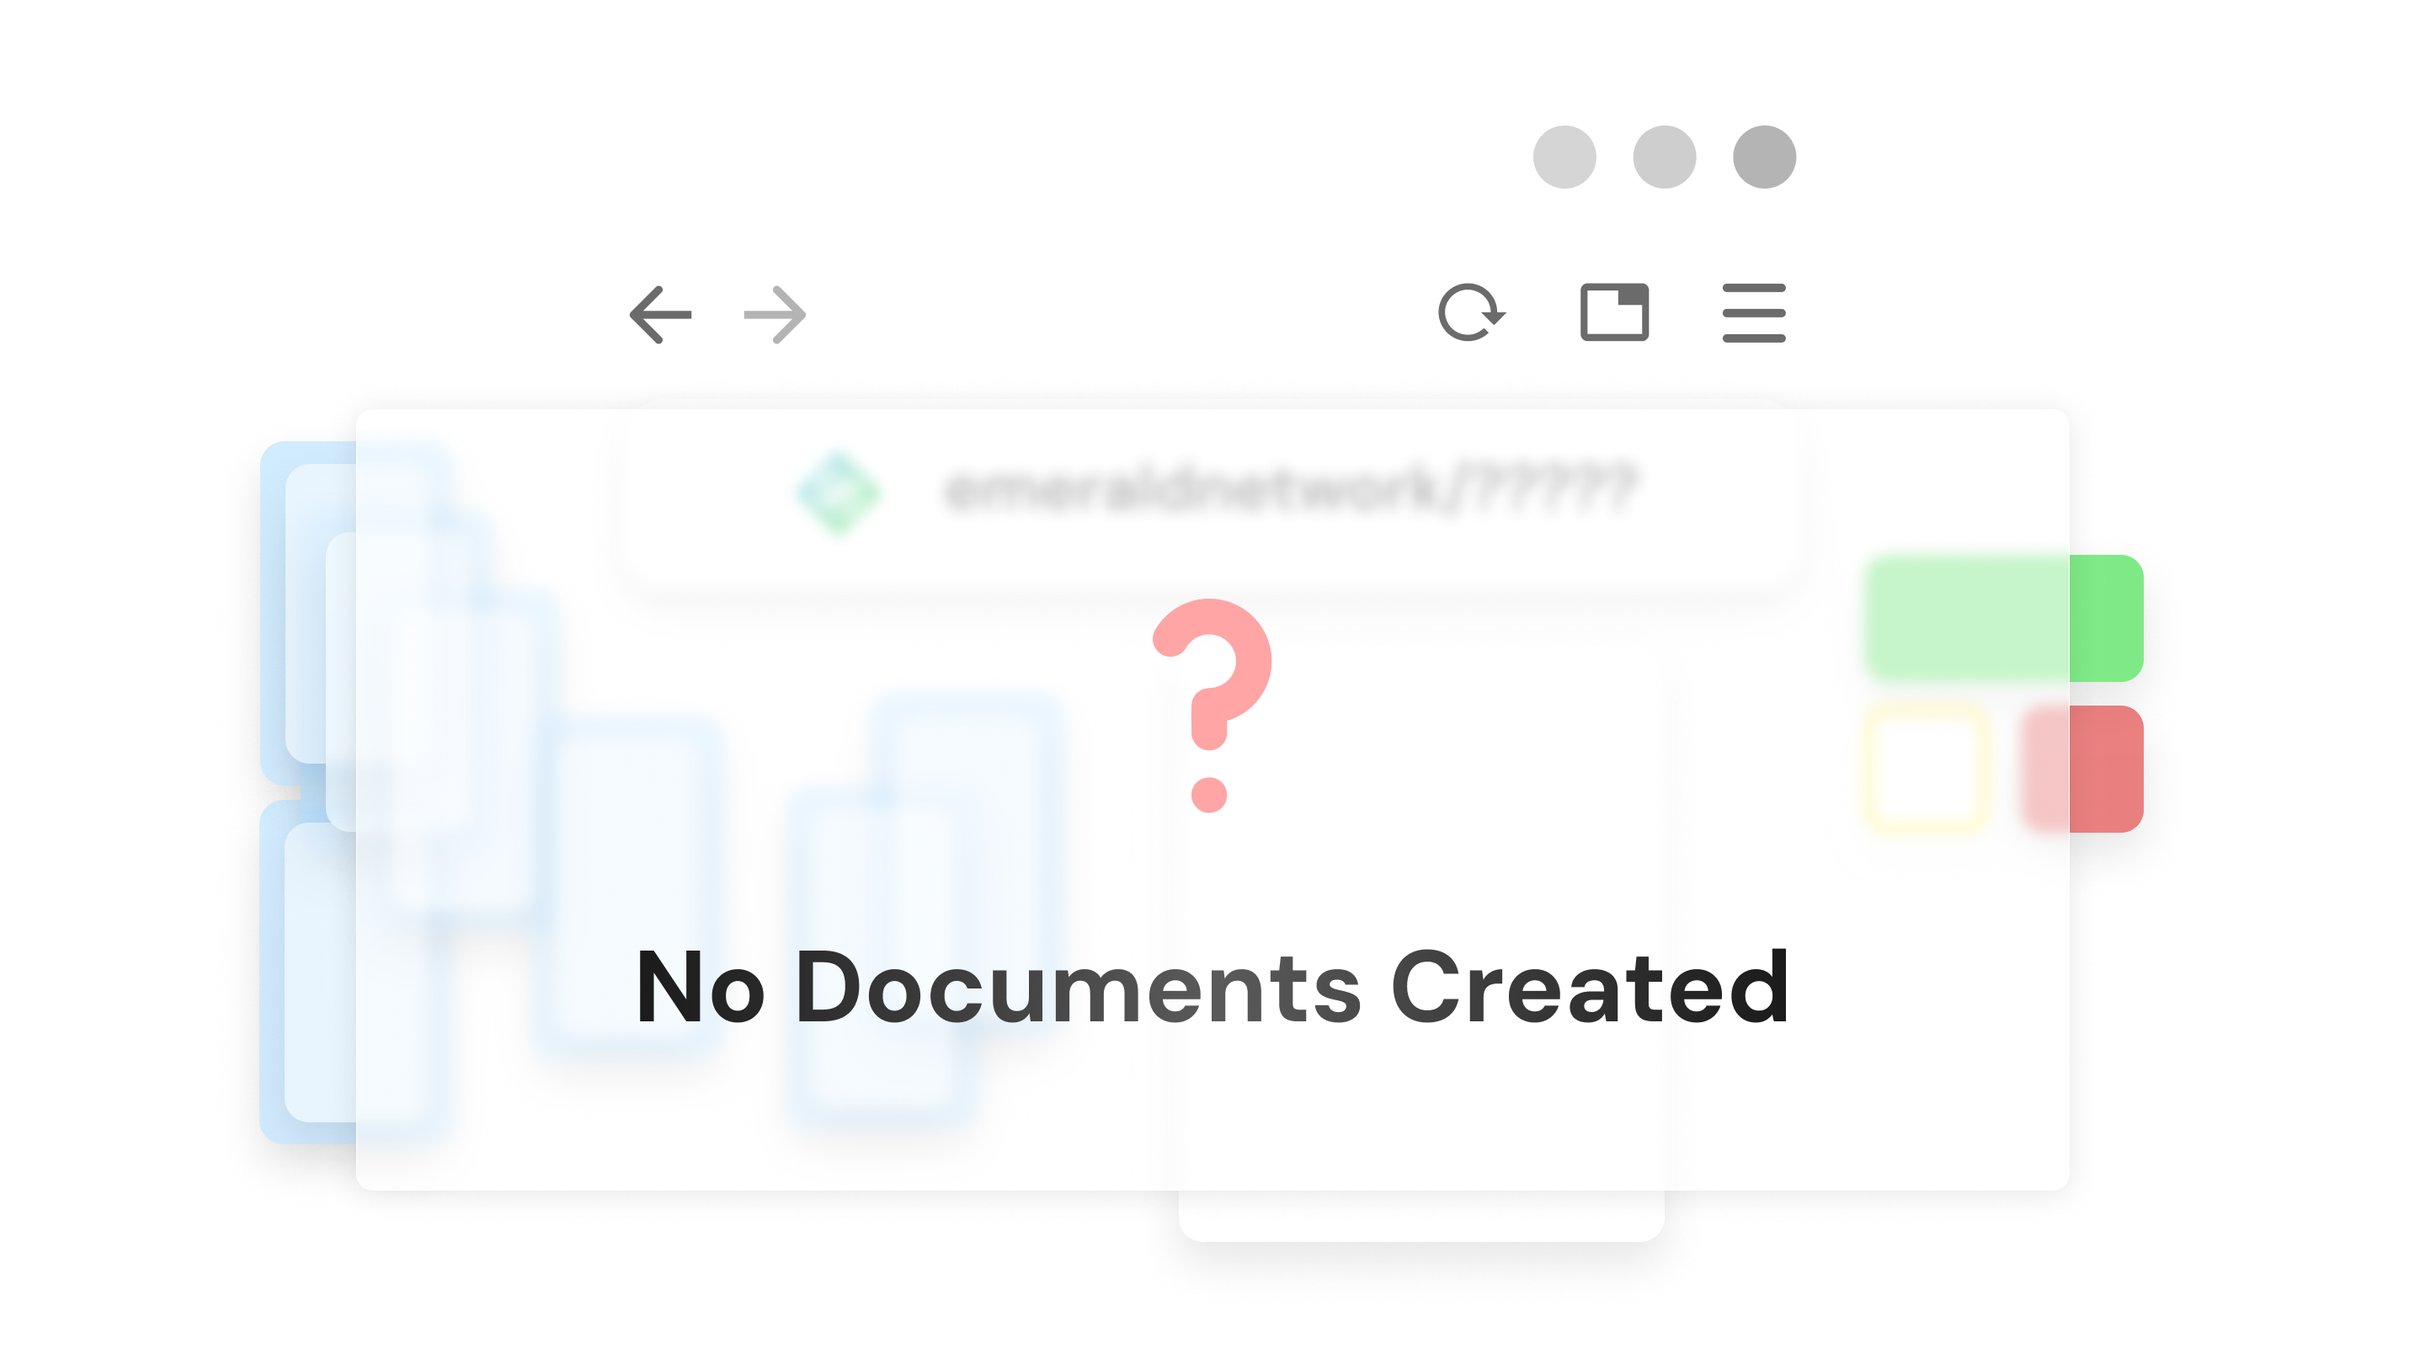
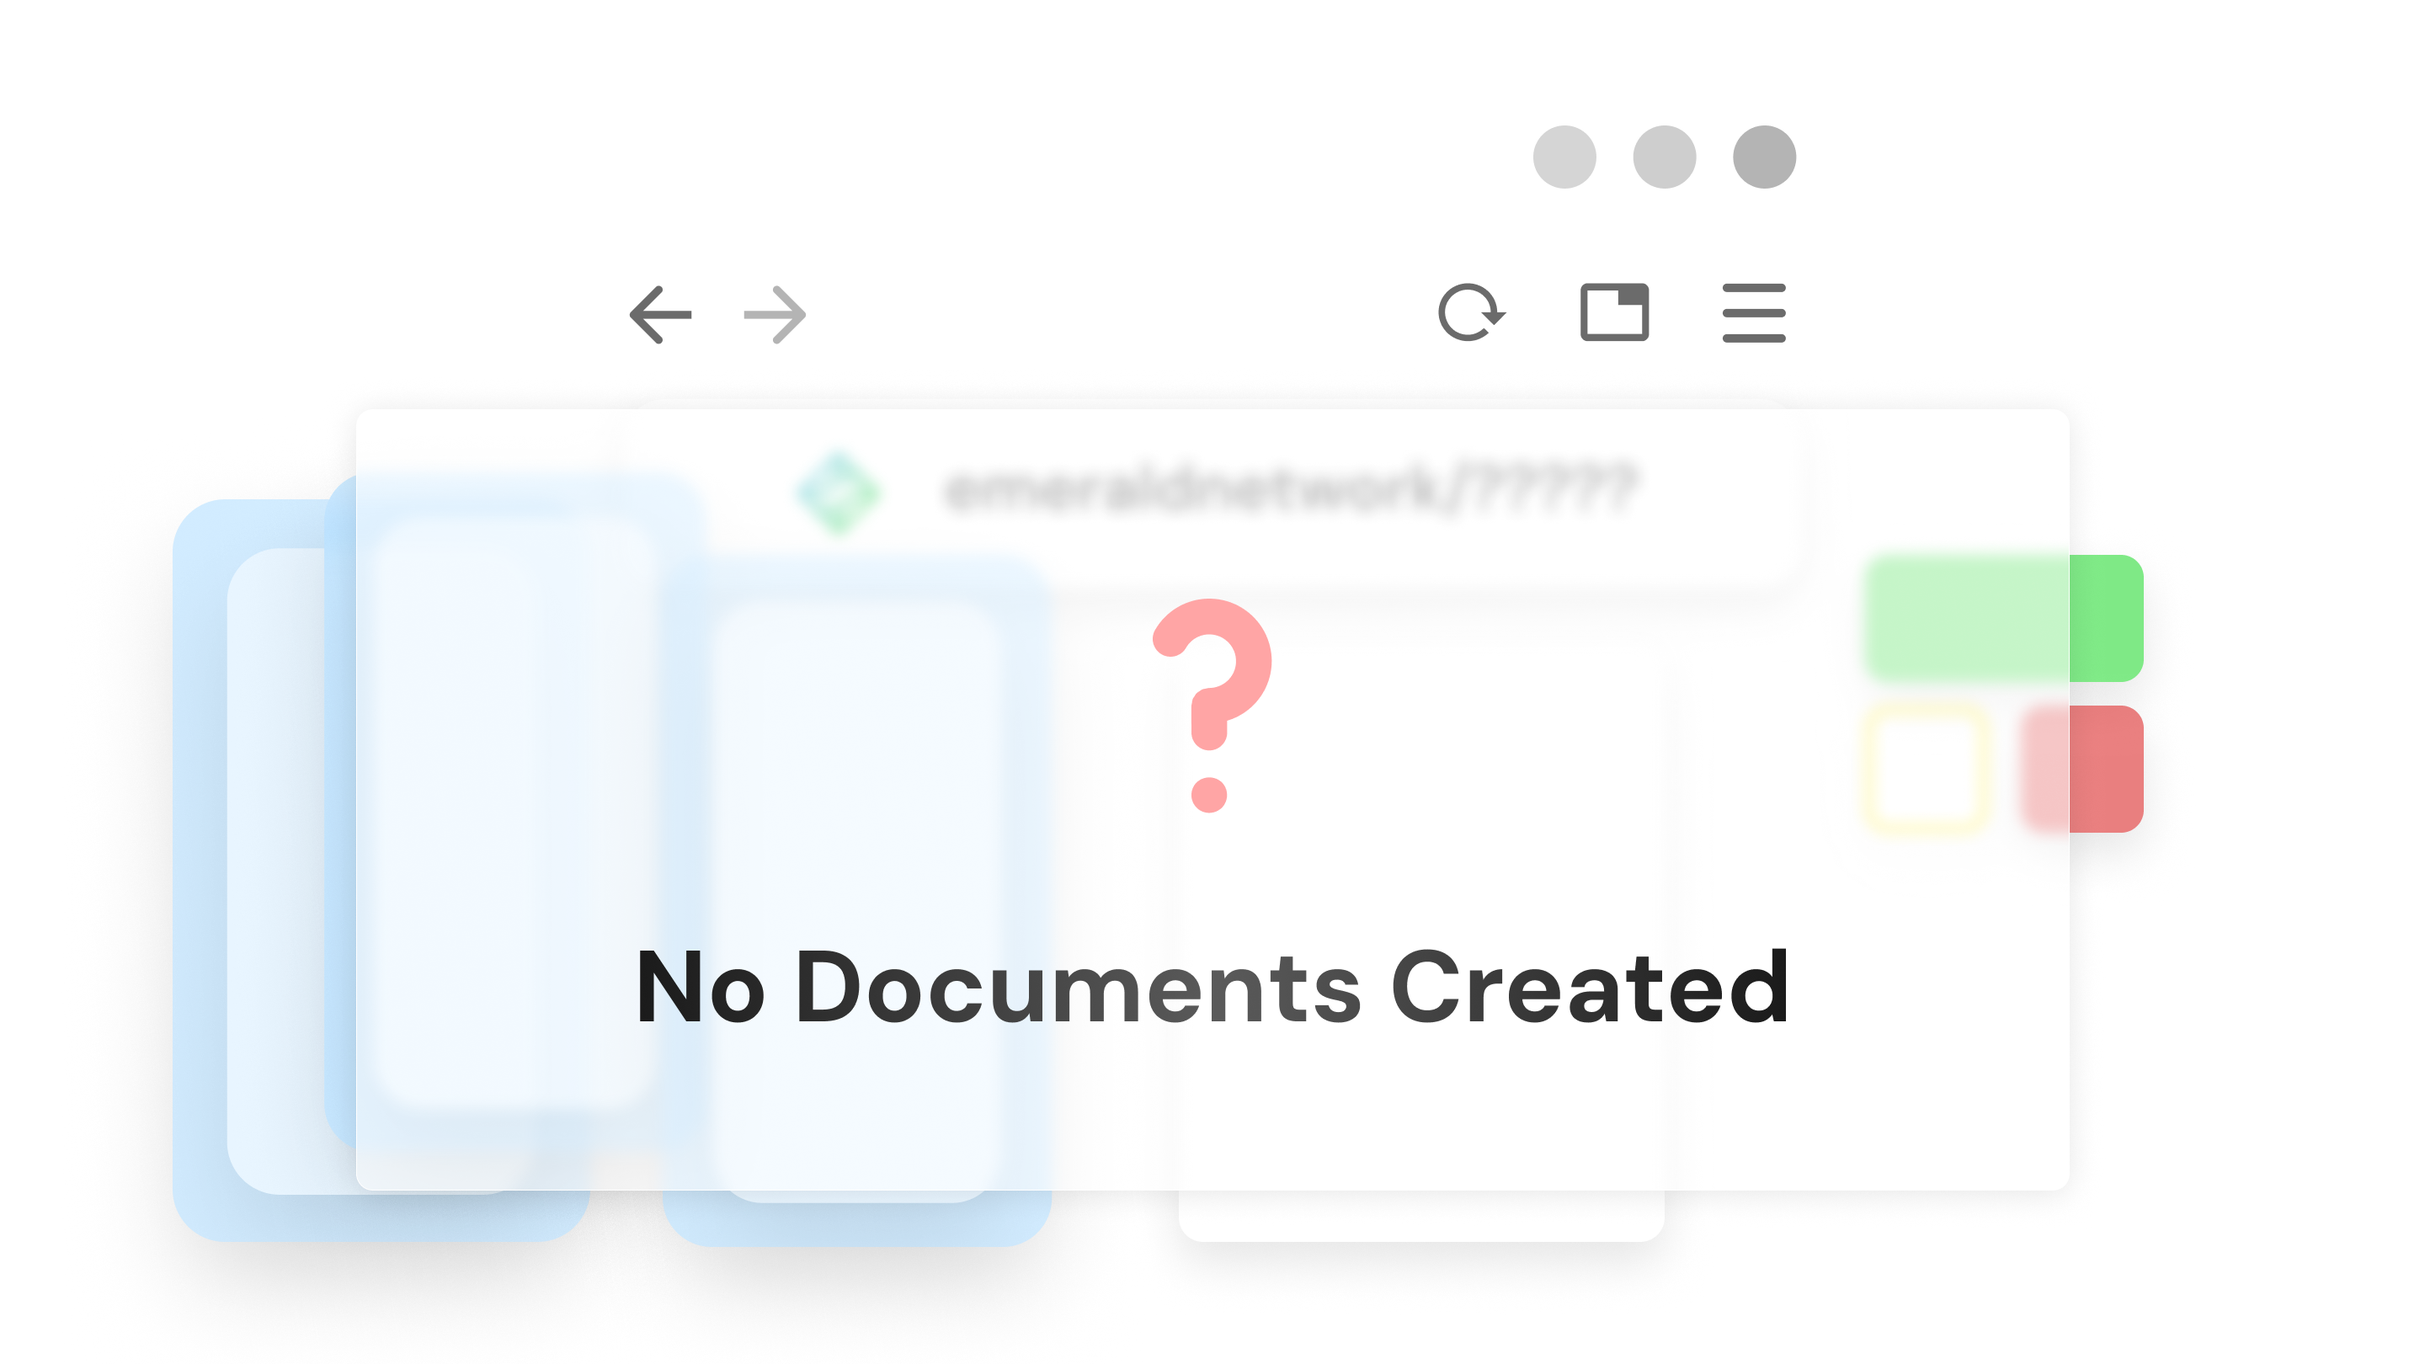
FIx duplicate print

Changed region(s): [[0.0625, 0.3086, 0.4375, 0.9259], [0.25, 0.4012, 0.3125, 0.5247], [0.1875, 0.3395, 0.25, 0.4012]]

diff --git a/assets/scripts/docs.js b/assets/scripts/docs.js
@@ -8732,11 +8732,7 @@ function startAutosaveSnapshots() {
     var bA11y = $("btnAccessibilityCheck");
     if (bA11y) { bA11y.addEventListener("mousedown", function (e) { e.preventDefault(); }); bA11y.addEventListener("click", runAccessibilityCheck); }
 
-    // Round 3: editor context menu + section break wiring done in initNewFeatures
-    initEditorContextMenu();
-    initRound4Features();
-
-    // Round 11: periodic relative autosave time update
+    // Periodic relative autosave time update
     setInterval(function () { updateRelativeAutosave(); }, 10000);
   }
 
@@ -8807,149 +8803,4 @@ function startAutosaveSnapshots() {
     lastWordCount = newCount;
   }
 
-  function initRound4Features() {
-    // Custom rich tooltips removed (Slides parity) — buttons keep their
-    // native title= tooltips.
-
-    // Table cell right-click (Round 6)
-    initTableContextMenu();
-  }
-
-  /* ---------------- Table cell right-click menu ---------------- */
-  function initTableContextMenu() {
-    var scroll = $("documentScroll");
-    if (!scroll) return;
-    scroll.addEventListener("contextmenu", function (e) {
-      var cell = e.target.closest(".page-content td, .page-content th");
-      if (!cell) return;
-      e.preventDefault();
-      // Build a table-specific context menu
-      hideEditorContextMenu();
-      var menu = ctxMenu || (ctxMenu = document.createElement("div"));
-      menu.className = "editor-context-menu open";
-      menu.innerHTML = "";
-      var items = [
-        { label: "Align left", action: function () { cell.style.textAlign = "left"; scheduleAutosave(); } },
-        { label: "Align center", action: function () { cell.style.textAlign = "center"; scheduleAutosave(); } },
-        { label: "Align right", action: function () { cell.style.textAlign = "right"; scheduleAutosave(); } },
-        { sep: true },
-        { label: "Shade cell", action: function () { cell.style.backgroundColor = "var(--ui-accent-soft)"; scheduleAutosave(); } },
-        { label: "Clear shading", action: function () { cell.style.backgroundColor = ""; scheduleAutosave(); } },
-        { sep: true },
-        { label: "Bold border", action: function () { cell.style.border = "2px solid var(--text-base)"; scheduleAutosave(); } },
-        { label: "No border", action: function () { cell.style.border = "1px solid var(--border-chrome)"; scheduleAutosave(); } },
-        { sep: true },
-        { label: "Delete row", danger: true, action: function () {
-          var row = cell.closest("tr");
-          if (row && row.parentElement) row.parentElement.removeChild(row);
-          schedulePaginate();
-          scheduleAutosave();
-        } },
-      ];
-      for (var i = 0; i < items.length; i++) {
-        var it = items[i];
-        if (it.sep) {
-          var sep = document.createElement("div");
-          sep.className = "ctx-sep";
-          menu.appendChild(sep);
-          continue;
-        }
-        var b = document.createElement("button");
-        b.innerHTML = "<span>" + it.label + "</span>";
-        if (it.danger) b.classList.add("ctx-danger");
-        (function (action) {
-          b.addEventListener("click", function (e2) {
-            e2.stopPropagation();
-            hideEditorContextMenu();
-            action();
-          });
-        })(it.action);
-        menu.appendChild(b);
-      }
-      menu.style.left = e.clientX + "px";
-      menu.style.top = e.clientY + "px";
-      document.body.appendChild(menu);
-      var rect = menu.getBoundingClientRect();
-      if (rect.right > window.innerWidth) menu.style.left = (window.innerWidth - rect.width - 8) + "px";
-      if (rect.bottom > window.innerHeight) menu.style.top = (window.innerHeight - rect.height - 8) + "px";
-    });
-  }
-
-  /* ---------------- Editor right-click context menu ---------------- */
-  var ctxMenu = null;
-  function initEditorContextMenu() {
-    var scroll = $("documentScroll");
-    if (!scroll) return;
-    scroll.addEventListener("contextmenu", function (e) {
-      var target = e.target.closest(".page-content");
-      if (!target) return;
-      e.preventDefault();
-      showEditorContextMenu(e.clientX, e.clientY);
-    });
-    document.addEventListener("click", function () { hideEditorContextMenu(); });
-    document.addEventListener("scroll", function () { hideEditorContextMenu(); }, true);
-  }
-
-  function showEditorContextMenu(x, y) {
-    if (!ctxMenu) {
-      ctxMenu = document.createElement("div");
-      ctxMenu.className = "editor-context-menu";
-      document.body.appendChild(ctxMenu);
-    }
-    var sel = window.getSelection();
-    var hasSelection = sel && !sel.isCollapsed;
-    var inEditor = false;
-    if (sel && sel.anchorNode) {
-      var node = sel.anchorNode.nodeType === Node.ELEMENT_NODE ? sel.anchorNode : sel.anchorNode.parentElement;
-      inEditor = !!node && !!node.closest && !!node.closest(".page-content");
-    }
-    ctxMenu.innerHTML = "";
-    var items = [
-      { label: "Cut", shortcut: "Ctrl+X", action: function () { document.execCommand("cut"); }, disabled: !hasSelection },
-      { label: "Copy", shortcut: "Ctrl+C", action: function () { document.execCommand("copy"); }, disabled: !hasSelection },
-      { label: "Paste", shortcut: "Ctrl+V", action: function () { document.execCommand("paste"); } },
-      { sep: true },
-      { label: "Bold", shortcut: "Ctrl+B", action: function () { exec("bold"); }, icon: "B" },
-      { label: "Italic", shortcut: "Ctrl+I", action: function () { exec("italic"); }, icon: "I" },
-      { label: "Underline", shortcut: "Ctrl+U", action: function () { exec("underline"); }, icon: "U" },
-      { sep: true },
-      { label: "Insert Link", shortcut: "Ctrl+K", action: function () { openLinkDialog(); } },
-      { label: "Add Comment", action: function () { addComment(); }, disabled: !hasSelection },
-    ];
-    for (var i = 0; i < items.length; i++) {
-      var it = items[i];
-      if (it.sep) {
-        var sep = document.createElement("div");
-        sep.className = "ctx-sep";
-        ctxMenu.appendChild(sep);
-        continue;
-      }
-      var btn = document.createElement("button");
-      btn.innerHTML = (it.icon ? '<span style="font-weight:700;font-family:var(--font-ui)">' + it.icon + "</span>" : "") +
-        "<span>" + it.label + "</span>" +
-        (it.shortcut ? '<span class="ctx-shortcut">' + it.shortcut + "</span>" : "");
-      if (it.disabled) btn.classList.add("ctx-disabled");
-      else {
-        (function (action) {
-          btn.addEventListener("click", function (e) {
-            e.stopPropagation();
-            hideEditorContextMenu();
-            action();
-          });
-        })(it.action);
-      }
-      ctxMenu.appendChild(btn);
-    }
-    ctxMenu.style.left = x + "px";
-    ctxMenu.style.top = y + "px";
-    ctxMenu.classList.add("open");
-    // keep on screen
-    var rect = ctxMenu.getBoundingClientRect();
-    if (rect.right > window.innerWidth) ctxMenu.style.left = (window.innerWidth - rect.width - 8) + "px";
-    if (rect.bottom > window.innerHeight) ctxMenu.style.top = (window.innerHeight - rect.height - 8) + "px";
-  }
-
-  function hideEditorContextMenu() {
-    if (ctxMenu) ctxMenu.classList.remove("open");
-  }
 })();

diff --git a/assets/styles/docs.css b/assets/styles/docs.css
@@ -451,8 +451,7 @@ body {
 .ribbon-tab[data-tab="file"]:hover { background: transparent; }
 
 .ribbon-tab:focus-visible {
-  outline: 2px solid var(--ui-accent-ring);
-  outline-offset: 2px;
+  outline-offset: 0px;
 }
 
 .ribbon-tab-indicator {
@@ -1705,10 +1704,6 @@ body {
   border-top-color: var(--ui-accent-border);
   border-bottom-color: var(--ui-accent-border);
   background: var(--ui-accent-soft);
-  font-size: 11px;
-  font-family: var(--font-ui);
-  text-transform: uppercase;
-  letter-spacing: 1px;
   user-select: none;
   position: relative;
 }
@@ -3347,7 +3342,7 @@ body {
   .draw-toolbar, .symbol-toolbar,
   .outline-panel, .thumbnails-panel, .comments-panel,
   .footnotes-panel,
-  .confetti-container, .rich-tip, .editor-context-menu,
+  .confetti-container, .rich-tip,
   .find-history,
   .zen-indicator {
     display: none !important;
@@ -3360,25 +3355,26 @@ body {
     background-image: none;
     padding: 0;
   }
-  .pages-wrapper { gap: 0; transform: none !important; }
+  .pages-wrapper { gap: 0; transform: none !important; zoom: 1 !important; }
   /* Each on-screen page fills exactly one A4 sheet edge-to-edge. Its own
      padding is the document margins, so the printout matches the on-screen
      paper exactly (real-paper look). */
   .page {
-    width: var(--emu-ppw, 210mm);
-    height: var(--emu-pph, 297mm);
+    width: 210mm !important;
+    height: 297mm !important;
     box-shadow: none;
     page-break-after: always;
     break-after: page;
     border-radius: 0;
     margin: 0;
-    overflow: visible;
+    overflow: hidden !important;
     animation: none;
   }
   .page:last-child {
     page-break-after: auto;
     break-after: auto;
   }
+  .page[data-thumb="1"] { display: none !important; }
   .page::before { display: none; }
   .page-badge { display: none !important; }
 .emdocs-page-break,
@@ -4169,45 +4165,6 @@ a.zdocs-internal-link:hover { text-decoration-color: var(--ui-accent); }
 }
 
 /* ---- Right-click context menu (in-document) ---- */
-.editor-context-menu {
-  position: fixed;
-  background: var(--bg-toolbar);
-  backdrop-filter: blur(8px);
-  -webkit-backdrop-filter: blur(8px);
-  border: 1px solid var(--border-chrome);
-  border-radius: var(--radius);
-  box-shadow: var(--shadow-lg);
-  padding: 4px;
-  z-index: 260;
-  min-width: 200px;
-  display: none;
-}
-.editor-context-menu.open { display: block; animation: ctxFadeIn 0.15s ease-out; }
-.editor-context-menu .ctx-group { padding: 2px 0; }
-.editor-context-menu .ctx-sep { height: 1px; background: var(--border-chrome); margin: 4px 0; }
-.editor-context-menu button {
-  display: flex;
-  align-items: center;
-  gap: 8px;
-  width: 100%;
-  text-align: left;
-  padding: 7px 12px;
-  border: none;
-  background: transparent;
-  color: var(--text-base);
-  font-size: 13px;
-  cursor: pointer;
-  border-radius: 4px;
-  font-family: var(--font-ui);
-}
-.editor-context-menu button:hover { background: var(--ui-accent-soft); color: var(--ui-accent); }
-.editor-context-menu button.ctx-danger { color: #d93025; }
-.editor-context-menu button.ctx-danger:hover { background: rgba(217, 48, 37, 0.08); }
-.editor-context-menu button svg { width: 14px; height: 14px; opacity: 0.7; }
-.editor-context-menu button.ctx-disabled { opacity: 0.4; cursor: default; }
-.editor-context-menu button.ctx-disabled:hover { background: transparent; color: var(--text-base); }
-.editor-context-menu .ctx-shortcut { margin-left: auto; font-size: 10px; color: var(--text-faint); font-family: var(--font-mono); }
-
 /* ---- Tooltip (native title= replacement for ribbon buttons) ---- */
 .ribbon-btn[data-tip] { position: relative; }
  ribbon-btn[data-tip]::after { content: ""; }
@@ -4404,13 +4361,14 @@ a.zdocs-internal-link:hover { text-decoration-color: var(--ui-accent); }
    not leave a blue outline lingering on the bar. Keyboard users still get a
    visible focus affordance via the browser default :focus ring, which we
    also neutralize for these specific controls below. */
+/* Keyboard focus matches slides/notes: browser-default focus ring flush to the
+   control (outline-offset 0px), NOT a custom colored/thick ring. */
 .ribbon-btn:focus-visible,
 .topbar-action:focus-visible,
 .btn:focus-visible,
 .select:focus-visible,
 .ribbon-btn-icon:focus-visible {
-  outline: 2px solid var(--ui-accent-ring);
-  outline-offset: 2px;
+  outline-offset: 0px;
 }
 
 /* Status-bar items: no blue focus ring on click OR keyboard focus,
@@ -4421,11 +4379,6 @@ a.zdocs-internal-link:hover { text-decoration-color: var(--ui-accent); }
 .page-size-label:focus {
   outline: none;
   box-shadow: none;
-}
-
-/* Ribbon button focus glow (subtle) */
-.ribbon-btn:focus-visible {
-  box-shadow: 0 0 0 3px var(--ui-accent-ring), var(--shadow-md);
 }
 
 /* Topbar action hover refinement */
@@ -5566,9 +5519,10 @@ body.no-active-doc .print-preview-bar {
 }
 
 .no-docs-hint {
-  font-family: var(--font-ui);
-  font-size: 14px;
-  color: rgba(71, 85, 105, 0.6);
+  /* 16px — matches Slides/Notes "Create your first …" hint. Their
+     .no-notes-container p (0,1,1) overrides .no-notes-hint (0,1,0) to 16px. */
+  font-size: 16px;
+  color: rgba(44, 62, 80, 0.5) !important;
   margin: 0;
 }
 

diff --git a/docs.html b/docs.html
@@ -16,6 +16,20 @@
   <link rel="icon" type="image/x-icon" href="/assets/images/docsicon.webp">
 </head>
 <body class="no-active-doc">
+  <div id="custom-context-menu" class="rightclick-menu">
+    <div class="context-section">
+      <span class="context-title"><svg width="12" height="12" viewBox="0 0 24 24" fill="none"
+          stroke="currentColor" stroke-width="2" stroke-linecap="round" stroke-linejoin="round"
+          style="vertical-align:-1px;display:inline-block">
+          <path
+            d="M14.7 6.3a1 1 0 0 0 0 1.4l1.6 1.6a1 1 0 0 0 1.4 0l3.77-3.77a6 6 0 0 1-7.94 7.94l-6.91 6.91a2.12 2.12 0 0 1-3-3l6.91-6.91a6 6 0 0 1 7.94-7.94l-3.76 3.76z" />
+        </svg> Tools</span>
+      <a onclick="copyTextContent()">Copy Text</a>
+      <a onclick="copyPageLink()">Copy Page Link</a>
+      <a onclick="showElementInfo()">Show Element Info</a>
+    </div>
+  </div>
+  <div id="custom-toast" class="custom-toast"></div>
   <div class="app" id="app">
     <!-- ===================== Print Preview Bar ===================== -->
     <div class="print-preview-bar" id="printPreviewBar">
@@ -1729,5 +1743,6 @@
   <script src="https://cdnjs.cloudflare.com/ajax/libs/mammoth/1.6.0/mammoth.browser.min.js"></script>
   <script src="/assets/scripts/idb-storage.js"></script>
   <script src="/assets/scripts/docs.js"></script>
+  <script src="/assets/scripts/rightclick.js"></script>
 </body>
 </html>

diff --git a/assets/styles/slides.css b/assets/styles/slides.css
@@ -2010,7 +2010,6 @@ body.collab-non-owner #exportNoteBtn, body.collab-non-owner #deleteNoteBtn, body
 }
 
 .no-notes-container p:first-of-type {
-    font-weight: 500;
     color: rgba(44, 62, 80, 0.8);
 }
 
